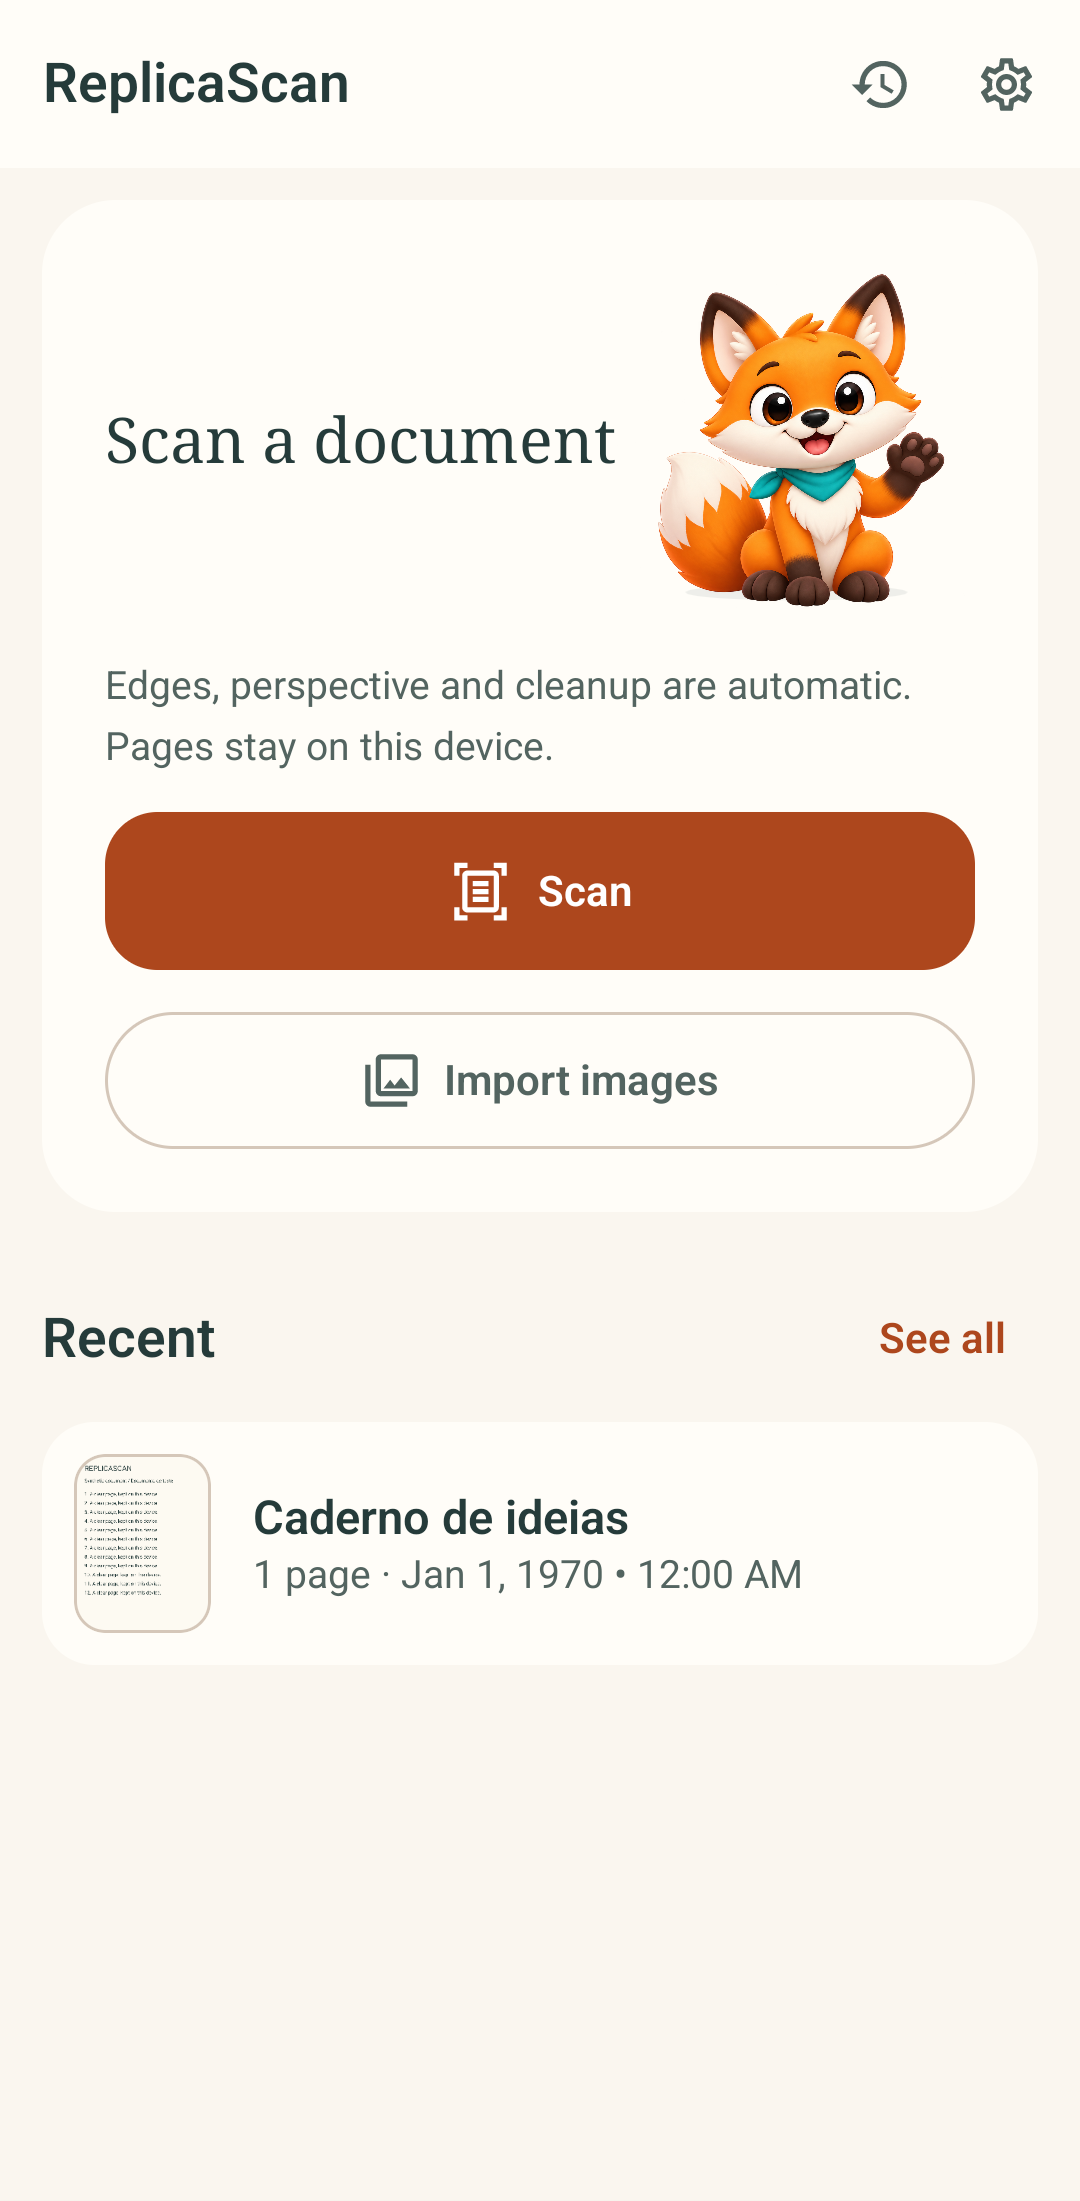
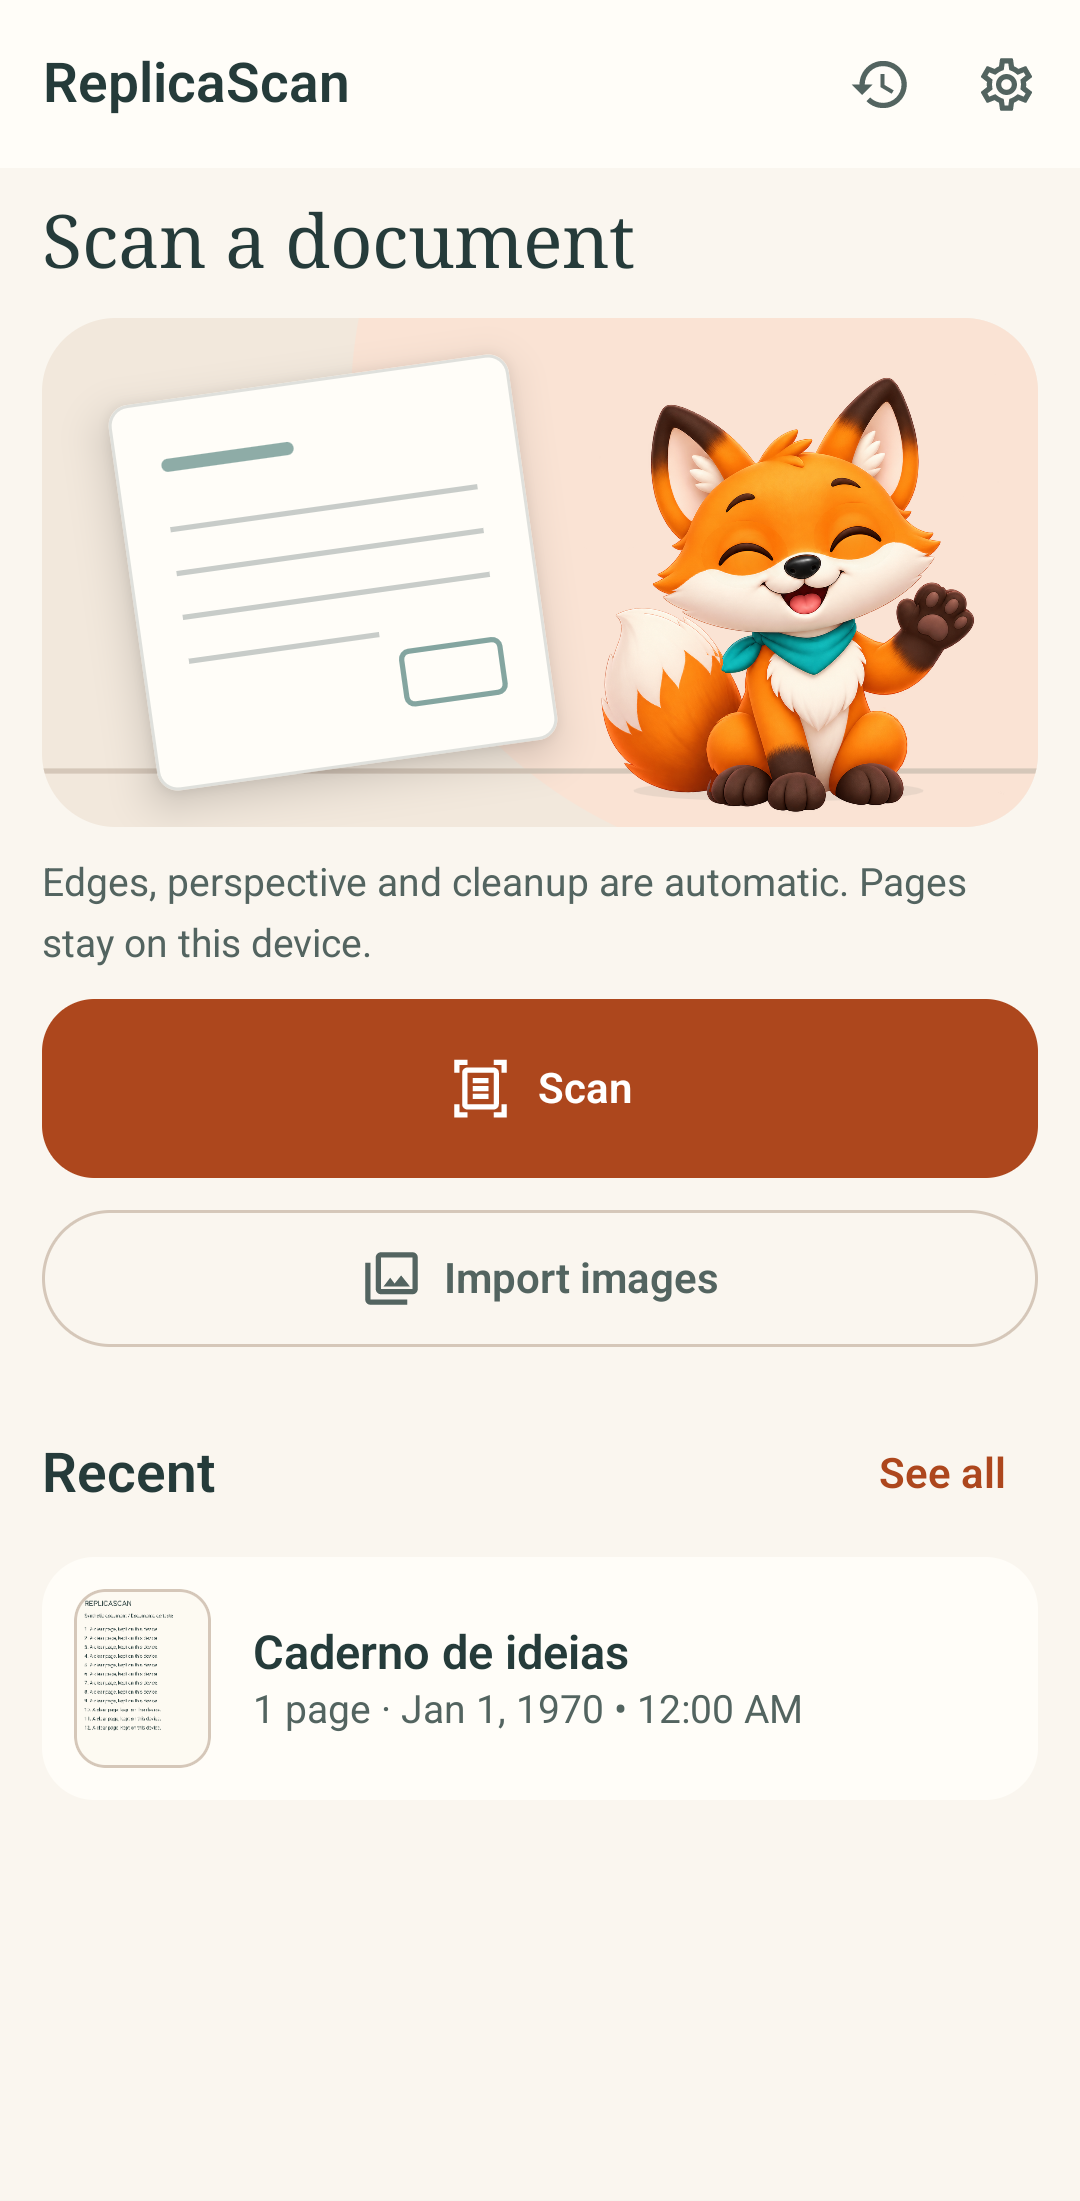
feat(home): integrate fox into paper scene and prioritize scanning

diff --git a/feature-home/src/main/java/com/soturine/replicascan/feature/home/HomeScreen.kt b/feature-home/src/main/java/com/soturine/replicascan/feature/home/HomeScreen.kt
@@ -6,13 +6,20 @@ import androidx.activity.compose.rememberLauncherForActivityResult
 import androidx.activity.result.PickVisualMediaRequest
 import androidx.activity.result.contract.ActivityResultContracts
 import androidx.compose.animation.AnimatedVisibility
+import androidx.compose.foundation.Canvas
+import androidx.compose.foundation.background
+import androidx.compose.foundation.border
 import androidx.compose.foundation.layout.Arrangement
+import androidx.compose.foundation.layout.Box
 import androidx.compose.foundation.layout.Column
 import androidx.compose.foundation.layout.PaddingValues
 import androidx.compose.foundation.layout.Row
 import androidx.compose.foundation.layout.Spacer
 import androidx.compose.foundation.layout.fillMaxSize
 import androidx.compose.foundation.layout.fillMaxWidth
+import androidx.compose.foundation.layout.height
+import androidx.compose.foundation.layout.heightIn
+import androidx.compose.foundation.layout.offset
 import androidx.compose.foundation.layout.padding
 import androidx.compose.foundation.layout.size
 import androidx.compose.foundation.layout.width
@@ -34,7 +41,6 @@ import androidx.compose.material3.MaterialTheme
 import androidx.compose.material3.Scaffold
 import androidx.compose.material3.SnackbarHost
 import androidx.compose.material3.SnackbarHostState
-import androidx.compose.material3.Surface
 import androidx.compose.material3.Text
 import androidx.compose.material3.TextButton
 import androidx.compose.material3.TopAppBar
@@ -47,6 +53,12 @@ import androidx.compose.runtime.saveable.rememberSaveable
 import androidx.compose.runtime.setValue
 import androidx.compose.ui.Alignment
 import androidx.compose.ui.Modifier
+import androidx.compose.ui.draw.clip
+import androidx.compose.ui.draw.shadow
+import androidx.compose.ui.geometry.Offset
+import androidx.compose.ui.graphics.drawscope.Stroke
+import androidx.compose.ui.graphics.graphicsLayer
+import androidx.compose.ui.graphics.luminance
 import androidx.compose.ui.platform.LocalConfiguration
 import androidx.compose.ui.platform.LocalDensity
 import androidx.compose.ui.res.pluralStringResource
@@ -56,10 +68,10 @@ import androidx.compose.ui.semantics.heading
 import androidx.compose.ui.semantics.liveRegion
 import androidx.compose.ui.semantics.semantics
 import androidx.compose.ui.unit.dp
+import androidx.compose.foundation.shape.RoundedCornerShape
 import com.soturine.replicascan.core.common.model.ScanDocument
 import com.soturine.replicascan.core.common.util.DateFormatter
 import com.soturine.replicascan.core.ui.component.DocumentListItem
-import com.soturine.replicascan.core.ui.component.EmptyStateCard
 import com.soturine.replicascan.core.ui.component.ReplicaScanContent
 import com.soturine.replicascan.core.ui.component.ReplicaScanMascot
 import com.soturine.replicascan.core.ui.component.ReplicaScanMascotState
@@ -192,10 +204,7 @@ fun HomeScreen(
             if (!state.isLoading && state.recentScans.isEmpty()) {
                 item(key = "empty") {
                     ReplicaScanContent {
-                        EmptyStateCard(
-                            title = stringResource(R.string.home_empty_title),
-                            message = stringResource(R.string.home_empty_message),
-                        )
+                        HomeEmptyLibrary()
                     }
                 }
             }
@@ -228,50 +237,115 @@ private fun ScanHero(
     onScan: () -> Unit,
     onImport: () -> Unit,
 ) {
-    Surface(
-        color = MaterialTheme.colorScheme.surface,
-        shape = MaterialTheme.shapes.extraLarge,
+    Column(
+        modifier = Modifier.fillMaxWidth(),
+        verticalArrangement = Arrangement.spacedBy(ReplicaScanSpacing.md),
     ) {
-        Column(
-            modifier = Modifier.fillMaxWidth().padding(ReplicaScanSpacing.xl),
-            verticalArrangement = Arrangement.spacedBy(ReplicaScanSpacing.lg),
-        ) {
-            Row(verticalAlignment = Alignment.CenterVertically) {
-                Text(
-                    text = stringResource(R.string.home_hero_title),
-                    style = MaterialTheme.typography.headlineSmall,
-                    modifier = Modifier.weight(1f).semantics { heading() },
-                )
-                if (LocalDensity.current.fontScale < 1.5f) {
-                    ReplicaScanMascot(ReplicaScanMascotState.Welcome, size = 136.dp)
-                }
-            }
-            Text(
-                text = stringResource(R.string.home_hero_body),
-                style = MaterialTheme.typography.bodyMedium,
-                color = MaterialTheme.colorScheme.onSurfaceVariant,
-            )
-            ReplicaScanPrimaryButton(
-                text = stringResource(R.string.home_scan_action),
-                onClick = onScan,
-                enabled = enabled,
-                icon = {
-                    Icon(Icons.Outlined.DocumentScanner, null)
-                    Spacer(Modifier.width(10.dp))
-                },
-            )
-            ReplicaScanSecondaryButton(
-                text = stringResource(R.string.home_import_action),
-                onClick = onImport,
-                enabled = enabled,
-                outlined = true,
-                modifier = Modifier.fillMaxWidth(),
-                icon = {
-                    Icon(Icons.Outlined.PhotoLibrary, null)
-                    Spacer(Modifier.width(8.dp))
-                },
-            )
+        Text(
+            text = stringResource(R.string.home_hero_title),
+            style = MaterialTheme.typography.headlineMedium,
+            modifier = Modifier.fillMaxWidth().semantics { heading() },
+        )
+        if (LocalDensity.current.fontScale < 1.5f) {
+            HomePaperScene()
         }
+        Text(
+            text = stringResource(R.string.home_hero_body),
+            style = MaterialTheme.typography.bodyMedium,
+            color = MaterialTheme.colorScheme.onSurfaceVariant,
+        )
+        ReplicaScanPrimaryButton(
+            text = stringResource(R.string.home_scan_action),
+            onClick = onScan,
+            enabled = enabled,
+            modifier = Modifier.heightIn(min = 68.dp),
+            icon = {
+                Icon(Icons.Outlined.DocumentScanner, null)
+                Spacer(Modifier.width(10.dp))
+            },
+        )
+        ReplicaScanSecondaryButton(
+            text = stringResource(R.string.home_import_action),
+            onClick = onImport,
+            enabled = enabled,
+            outlined = true,
+            modifier = Modifier.fillMaxWidth(),
+            icon = {
+                Icon(Icons.Outlined.PhotoLibrary, null)
+                Spacer(Modifier.width(8.dp))
+            },
+        )
+    }
+}
+
+@Composable
+private fun HomePaperScene() {
+    val colors = MaterialTheme.colorScheme
+    val isDark = colors.background.luminance() < .5f
+    val paperColor = if (isDark) colors.inverseSurface else colors.surface
+    val paperInk = if (isDark) colors.inverseOnSurface else colors.onSurface
+    val shape = RoundedCornerShape(28.dp)
+    Box(
+        modifier = Modifier.fillMaxWidth().height(194.dp)
+            .clip(shape).background(colors.surfaceContainerHigh),
+    ) {
+        val glow = colors.primaryContainer.copy(alpha = .60f)
+        Canvas(Modifier.matchParentSize()) {
+            drawCircle(glow, radius = size.width * .47f, center = Offset(size.width * .78f, size.height * .17f))
+            drawLine(colors.outlineVariant, Offset(0f, size.height * .89f),
+                Offset(size.width, size.height * .89f), strokeWidth = 2.dp.toPx())
+        }
+        val pageShape = RoundedCornerShape(8.dp)
+        Box(
+            modifier = Modifier.align(Alignment.CenterStart).padding(start = 34.dp)
+                .size(width = 154.dp, height = 148.dp)
+                .graphicsLayer { rotationZ = -8f }
+                .shadow(10.dp, pageShape)
+                .background(paperColor, pageShape)
+                .border(1.dp, paperInk.copy(alpha = .15f), pageShape)
+                .padding(18.dp),
+        ) {
+            Canvas(Modifier.matchParentSize()) {
+                val ink = colors.secondary.copy(alpha = .55f)
+                val rule = paperInk.copy(alpha = .25f)
+                drawRoundRect(ink, topLeft = Offset(0f, size.height * .04f),
+                    size = androidx.compose.ui.geometry.Size(size.width * .43f, 5.dp.toPx()),
+                    cornerRadius = androidx.compose.ui.geometry.CornerRadius(3.dp.toPx()))
+                listOf(.28f, .43f, .58f, .73f).forEachIndexed { index, y ->
+                    drawLine(rule, Offset(0f, size.height * y),
+                        Offset(size.width * if (index == 3) .62f else 1f, size.height * y),
+                        strokeWidth = 2.dp.toPx())
+                }
+                drawRoundRect(colors.secondary.copy(alpha = .60f),
+                    topLeft = Offset(size.width * .68f, size.height * .80f),
+                    size = androidx.compose.ui.geometry.Size(size.width * .32f, size.height * .18f),
+                    cornerRadius = androidx.compose.ui.geometry.CornerRadius(3.dp.toPx()),
+                    style = Stroke(width = 2.dp.toPx()))
+            }
+        }
+        ReplicaScanMascot(
+            state = ReplicaScanMascotState.Welcome,
+            size = 178.dp,
+            modifier = Modifier.align(Alignment.BottomEnd).offset(x = (-10).dp),
+        )
+    }
+}
+
+@Composable
+private fun HomeEmptyLibrary() {
+    Column(
+        modifier = Modifier.fillMaxWidth().padding(vertical = ReplicaScanSpacing.md),
+        verticalArrangement = Arrangement.spacedBy(ReplicaScanSpacing.xs),
+    ) {
+        Text(
+            text = stringResource(R.string.home_empty_title),
+            style = MaterialTheme.typography.titleMedium,
+        )
+        Text(
+            text = stringResource(R.string.home_empty_message),
+            style = MaterialTheme.typography.bodyMedium,
+            color = MaterialTheme.colorScheme.onSurfaceVariant,
+        )
     }
 }
 

diff --git a/README.md b/README.md
@@ -27,7 +27,7 @@ Não há conta, backend, sincronização ou upload obrigatório de documentos. C
 
 ## Redesign e evidência
 
-A base da v0.4.1 traz papel marfim, tinta petróleo e terracota, revisão de telas, crop com cantos independentes e exportação com nome de arquivo, progresso e recuperação persistente. O visual do ciclo anterior foi rejeitado pelo proprietário. Um novo master e sete poses baseados na raposa da v0.4.0 receberam aceite como arte estática. A pose de atenção teve patas extras corrigidas e um rig candidato com camadas independentes foi capturado no Android. Home, opções de exportação e introdução foram recapturadas após a revisão das composições; animação, ícone e telas ainda estão em avaliação.
+A base da v0.4.1 traz papel marfim, tinta petróleo e terracota, revisão de telas, crop com cantos independentes e exportação com nome de arquivo, progresso e recuperação persistente. O visual do ciclo anterior foi rejeitado pelo proprietário. Um novo master e sete poses baseados na raposa da v0.4.0 receberam aceite como arte estática. A pose de atenção teve patas extras corrigidas e um rig candidato com camadas independentes foi capturado no Android. A Home agora integra a raposa à cena de papel e prioriza Escanear inclusive com fonte 200%; exportação e introdução ainda estão em revisão. Animação, ícone e conjunto das telas continuam sem aceite final.
 
 Veja a [auditoria de recuperação visual](docs/design/visual-recovery/AUDIT.md), a [prancha das poses](docs/design/visual-recovery/candidates/review.html), o [clipe e as capturas Android atuais](docs/design/visual-recovery/evidence/README.md), a [revisão por tela](docs/design/visual-recovery/SCREEN_REVIEW.md) e a [matriz de validação](docs/design/visual-recovery/VALIDATION_MATRIX.md). O material novo usa estados injetados e documento sintético; não substitui QA físico, TalkBack humano, revisão linguística nativa ou aceite final.
 

diff --git a/CHANGELOG.md b/CHANGELOG.md
@@ -6,6 +6,7 @@ Este projeto segue Semantic Versioning e recomenda Conventional Commits no fluxo
 
 - Recuperação visual em andamento após rejeição do redesign anterior: master e poses baseados na raposa da v0.4.0 aprovados como arte estática; movimento e telas ainda pendentes de aceite.
 - Rig Compose candidato articula cabeça, cauda, patas, folha e piscadas em camadas de renderização; a pose de atenção teve patas extras removidas. Clipe Android v2 e frames consecutivos publicados para revisão, ainda sem aceite final do movimento.
+- Home recomposta com a raposa diante de uma folha iluminada, botão Escanear mais evidente e estado vazio sem cartão pesado; em fonte 200% a ilustração cede espaço às ações. Capturas nativas claras e escuras atualizadas.
 - Atlas deformado substituído por poses completas em Compose, com movimento discreto, respeito ao lifecycle/redução de movimento e clipe de frames Android. Exportação em andamento voltou a mostrar prévia e identificação da página.
 - Home com mascote mais legível e texto em largura completa; em fonte 200% a arte cede espaço ao conteúdo. Opções de exportação reúnem prévia, páginas e formato atual na mesma superfície.
 - Introdução usa saudação, leitura e sucesso nas três páginas, eliminando a repetição da pose de trabalho.

diff --git a/docs/design/visual-recovery/evidence/README.md b/docs/design/visual-recovery/evidence/README.md
@@ -7,7 +7,10 @@ sintético e estados injetados; não demonstram captura física, OCR real ou
 escrita de exportação. `export-progress.png` foi recapturada após incluir a
 prévia da página real na composição. Home e opções de exportação foram
 recapturadas após a revisão de composição; as três páginas de introdução
-foram recapturadas após receber poses distintas. As demais capturas vêm da
+foram recapturadas após receber poses distintas. A Home foi recapturada em
+2026-10-13 com cena de papel e raposa, botão principal ampliado, estado vazio
+sem cartão e folha iluminada no tema escuro; `home-dark-200.png` documenta a
+composição sem ilustração em fonte 200%. As demais capturas vêm da
 fatia anterior do mesmo runtime com as poses aprovadas.
 
 O [clipe v2](mascot-motion-v2.mp4) reúne 64 frames renderizados no Android com o
